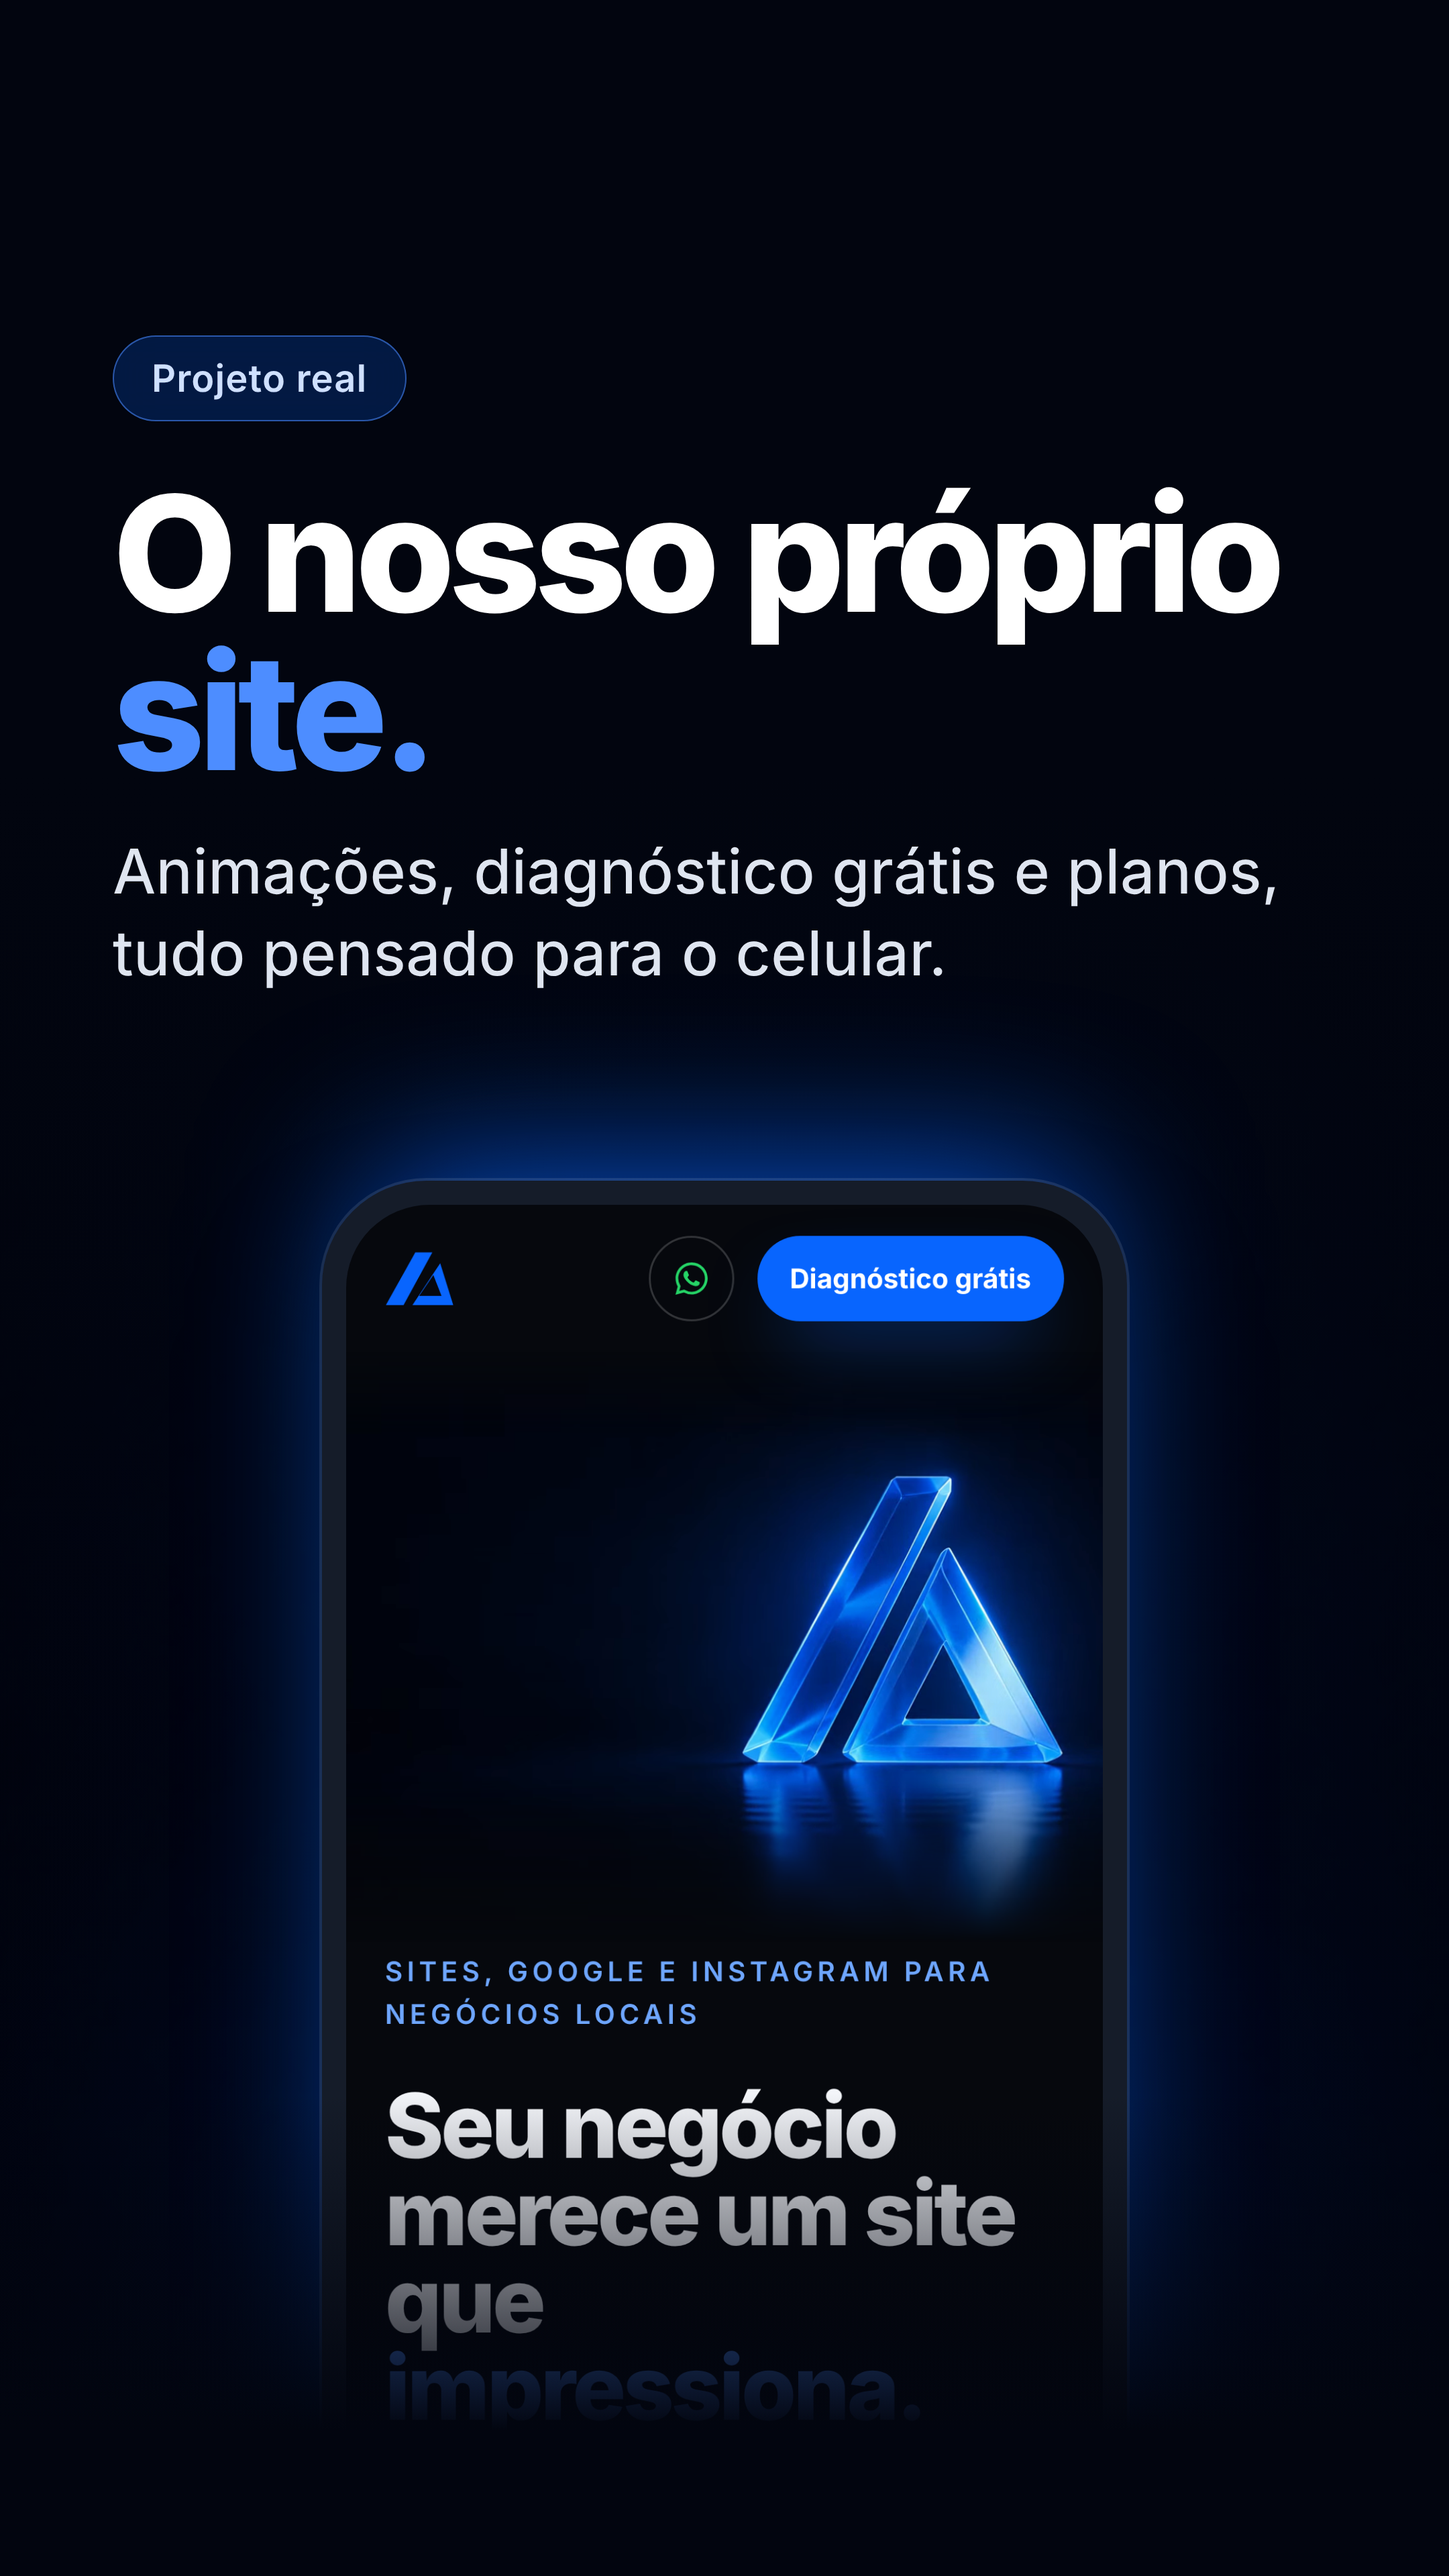
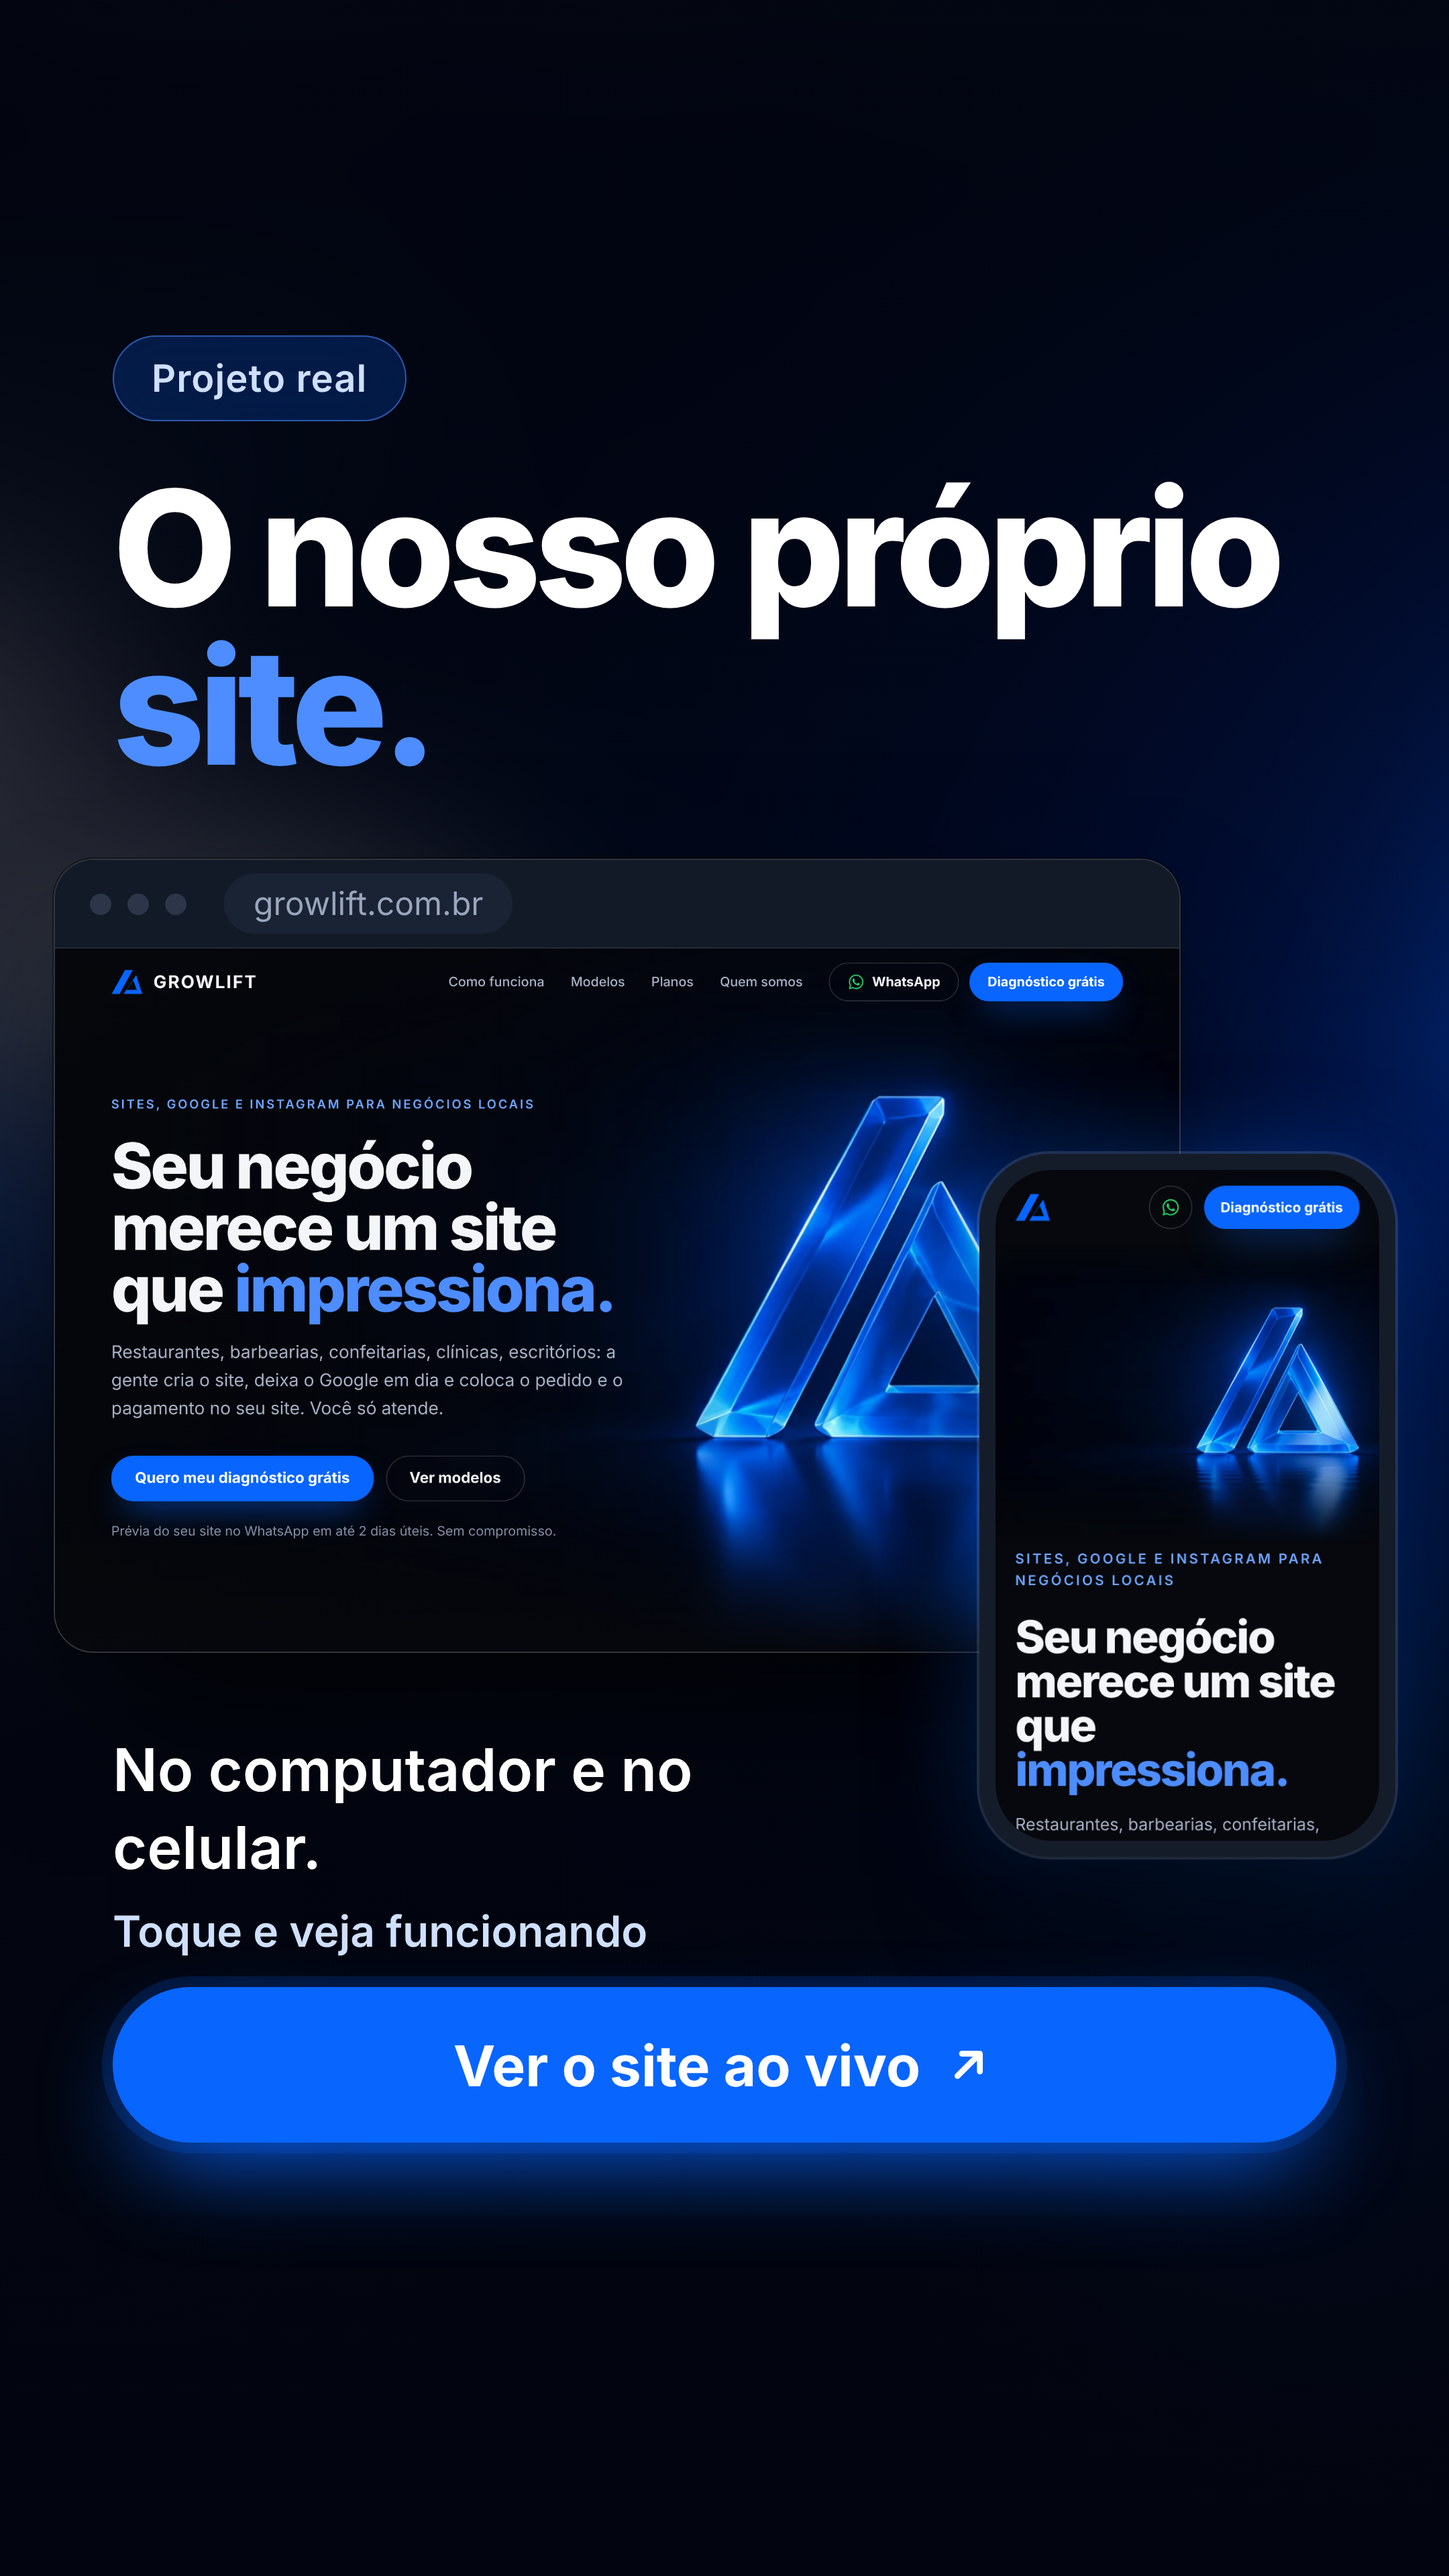
Instagram: story Projetos 06 refeito, com botão desenhado para o adesivo de link
Claude-Session: https://claude.ai/code/session_0144E8K5YaHTVDtLe8swm1ug

diff --git a/growlift-social/_fonte/html/03-destaques/1-projetos/06.html b/growlift-social/_fonte/html/03-destaques/1-projetos/06.html
@@ -37,14 +37,19 @@ body{background:#02050f}
 .feat{display:flex;align-items:center;gap:24px;font-size:44px;font-weight:600;color:#f3f6fb;line-height:1.2}
 .feat b{flex:none;width:58px;height:58px;border-radius:50%;display:grid;place-items:center;background:#0865fe;box-shadow:0 10px 30px -8px rgba(8,101,254,.9)}
 </style></head><body>
-    <img src="hd/marca-vidro-vertical.png" style="position:absolute;left:-120px;top:520px;width:1320px;height:2334px;object-fit:cover;opacity:.55;filter:blur(2px)">
-    <div style="position:absolute;inset:0;background:linear-gradient(180deg,#02050f 30%,rgba(2,5,15,.35) 62%,rgba(2,5,15,.2) 100%)"></div>
+    <img src="hd/growlift.png" style="position:absolute;left:-200px;top:-200px;width:1480px;height:2320px;object-fit:cover;filter:blur(90px) saturate(1.4);opacity:.8">
+    <div style="position:absolute;inset:0;background:linear-gradient(180deg,rgba(2,5,15,.6) 0%,rgba(2,5,15,.35) 40%,rgba(2,5,15,.88) 68%,#02050f 100%)"></div>
     <div style="position:absolute;left:84px;right:84px;top:250px">
       <span class="pill blue">Projeto real</span>
-      <h1 class="t-title" style="font-size:120px;margin-top:40px">O nosso próprio <span class="blue">site.</span></h1>
-      <p class="t-lead" style="margin-top:30px">Animações, diagnóstico grátis e planos, tudo pensado para o celular.</p>
+      <h1 class="t-title" style="font-size:120px;margin-top:36px">O nosso próprio <span class="blue">site.</span></h1>
     </div>
-    <div class="phone" style="position:absolute;left:50%;top:880px;width:600px;margin-left:-300px;padding:18px;border-radius:78px;background:#151c29;box-shadow:0 0 0 2px rgba(255,255,255,.1),0 -40px 120px -30px rgba(8,101,254,.75),0 60px 120px -30px rgba(0,0,0,.95)">
-      <img src="hd/growlift-cel.png" style="display:block;width:100%;border-radius:62px">
+    <div class="win" style="position:absolute;left:40px;width:840px;top:640px"><div class="bar"><i></i><i></i><i></i><span>growlift.com.br</span></div><img src="hd/growlift.png"></div>
+    <div style="position:absolute;right:40px;top:860px;width:310px;padding:12px;border-radius:52px;background:#151c29;box-shadow:0 0 0 2px rgba(255,255,255,.12),0 50px 100px -30px rgba(0,0,0,.95),0 0 80px -20px rgba(8,101,254,.6)">
+      <img src="hd/growlift-cel.png" style="display:block;width:100%;height:500px;object-fit:cover;object-position:top;border-radius:42px">
     </div>
-    <div style="position:absolute;left:0;right:0;top:1560px;height:360px;background:linear-gradient(180deg,rgba(2,5,15,0),#02050f 70%)"></div></body></html>
+    <p class="t-lead" style="position:absolute;left:84px;width:560px;top:1290px;font-size:44px;font-weight:600;color:#fff">No computador e no celular.</p>
+    
+    <div style="position:absolute;left:84px;right:84px;top:1420px">
+      <p style="font-size:32px;font-weight:600;color:#cfe0ff;display:flex;align-items:center;gap:12px">Toque e veja funcionando</p>
+      <div style="margin-top:22px;height:116px;border-radius:999px;display:flex;align-items:center;justify-content:center;gap:16px;font-size:42px;font-weight:700;color:#fff;background:#0865fe;box-shadow:0 0 0 8px rgba(8,101,254,.18),0 30px 70px -20px rgba(8,101,254,.95)">Ver o site ao vivo<svg width="40" height="40" viewBox="0 0 24 24" fill="none" stroke="currentColor" stroke-width="2.6" stroke-linecap="round" stroke-linejoin="round"><path d="M7 17 17 7M9 7h8v8"/></svg></div>
+    </div></body></html>

diff --git a/growlift-social/03-destaques/destaques.md b/growlift-social/03-destaques/destaques.md
@@ -20,13 +20,14 @@ Usem as capas da **direção A** (`capas/direcao-A/`): fundo azul-marinho, ícon
 
 | Destaque | Story | Endereço do link | Texto do adesivo |
 | --- | --- | --- | --- |
-| Projetos | 06 (o nosso próprio site) | `https://growlift.com.br/#modelos` | Ver os modelos |
+| Projetos | 06 (o nosso próprio site) | `https://growlift.com.br` | Ver o site ao vivo (por cima do botão azul desenhado na arte) |
 | Serviços | 06 (peça um diagnóstico grátis) | `https://growlift.com.br/#diagnostico` | Pedir diagnóstico |
 | Processo | 02 (passo 1, peça o diagnóstico) | `https://growlift.com.br/#diagnostico` | Pedir diagnóstico |
 | Design | 03 (pensado para o celular) | `https://growlift.com.br` | Ver o site |
 | Contato | 01 (vamos conversar?) | `https://growlift.com.br` | Visitar o site |
 | Contato | 03 (WhatsApp) | `https://wa.me/5511994463234` | Chamar no WhatsApp |
 
+   Nas artes novas, o lugar do link já vem desenhado: um botão azul do tamanho do adesivo. Ponham o adesivo exatamente em cima dele.
    No Instagram: adesivos › **Link** › colem o endereço › **Personalizar texto do adesivo**. Ponham o adesivo num espaço vazio, nunca na barra de baixo ("Enviar mensagem").
 
 ## 1 · Projetos (6 stories)
